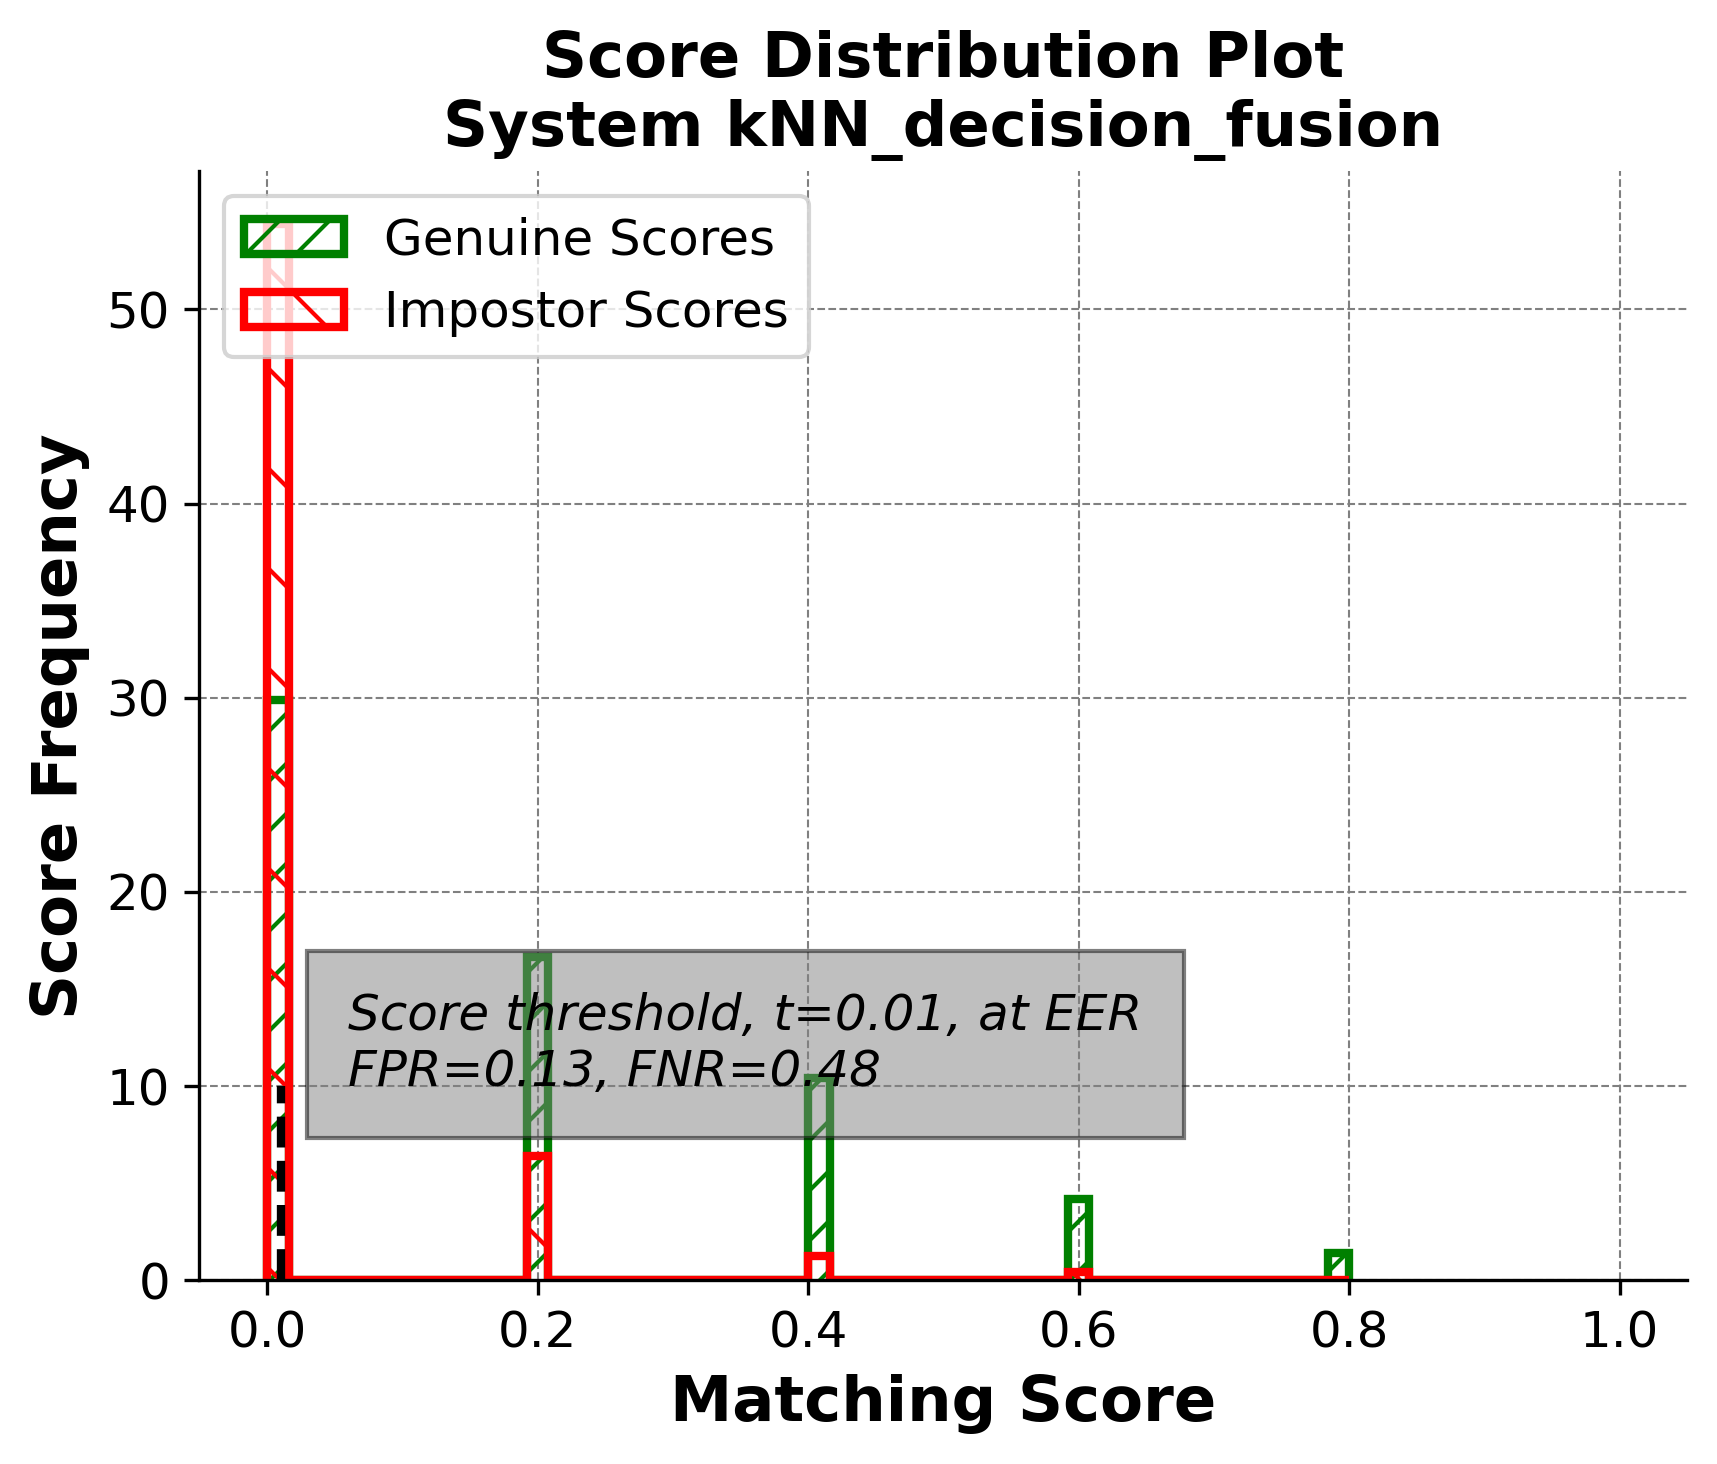
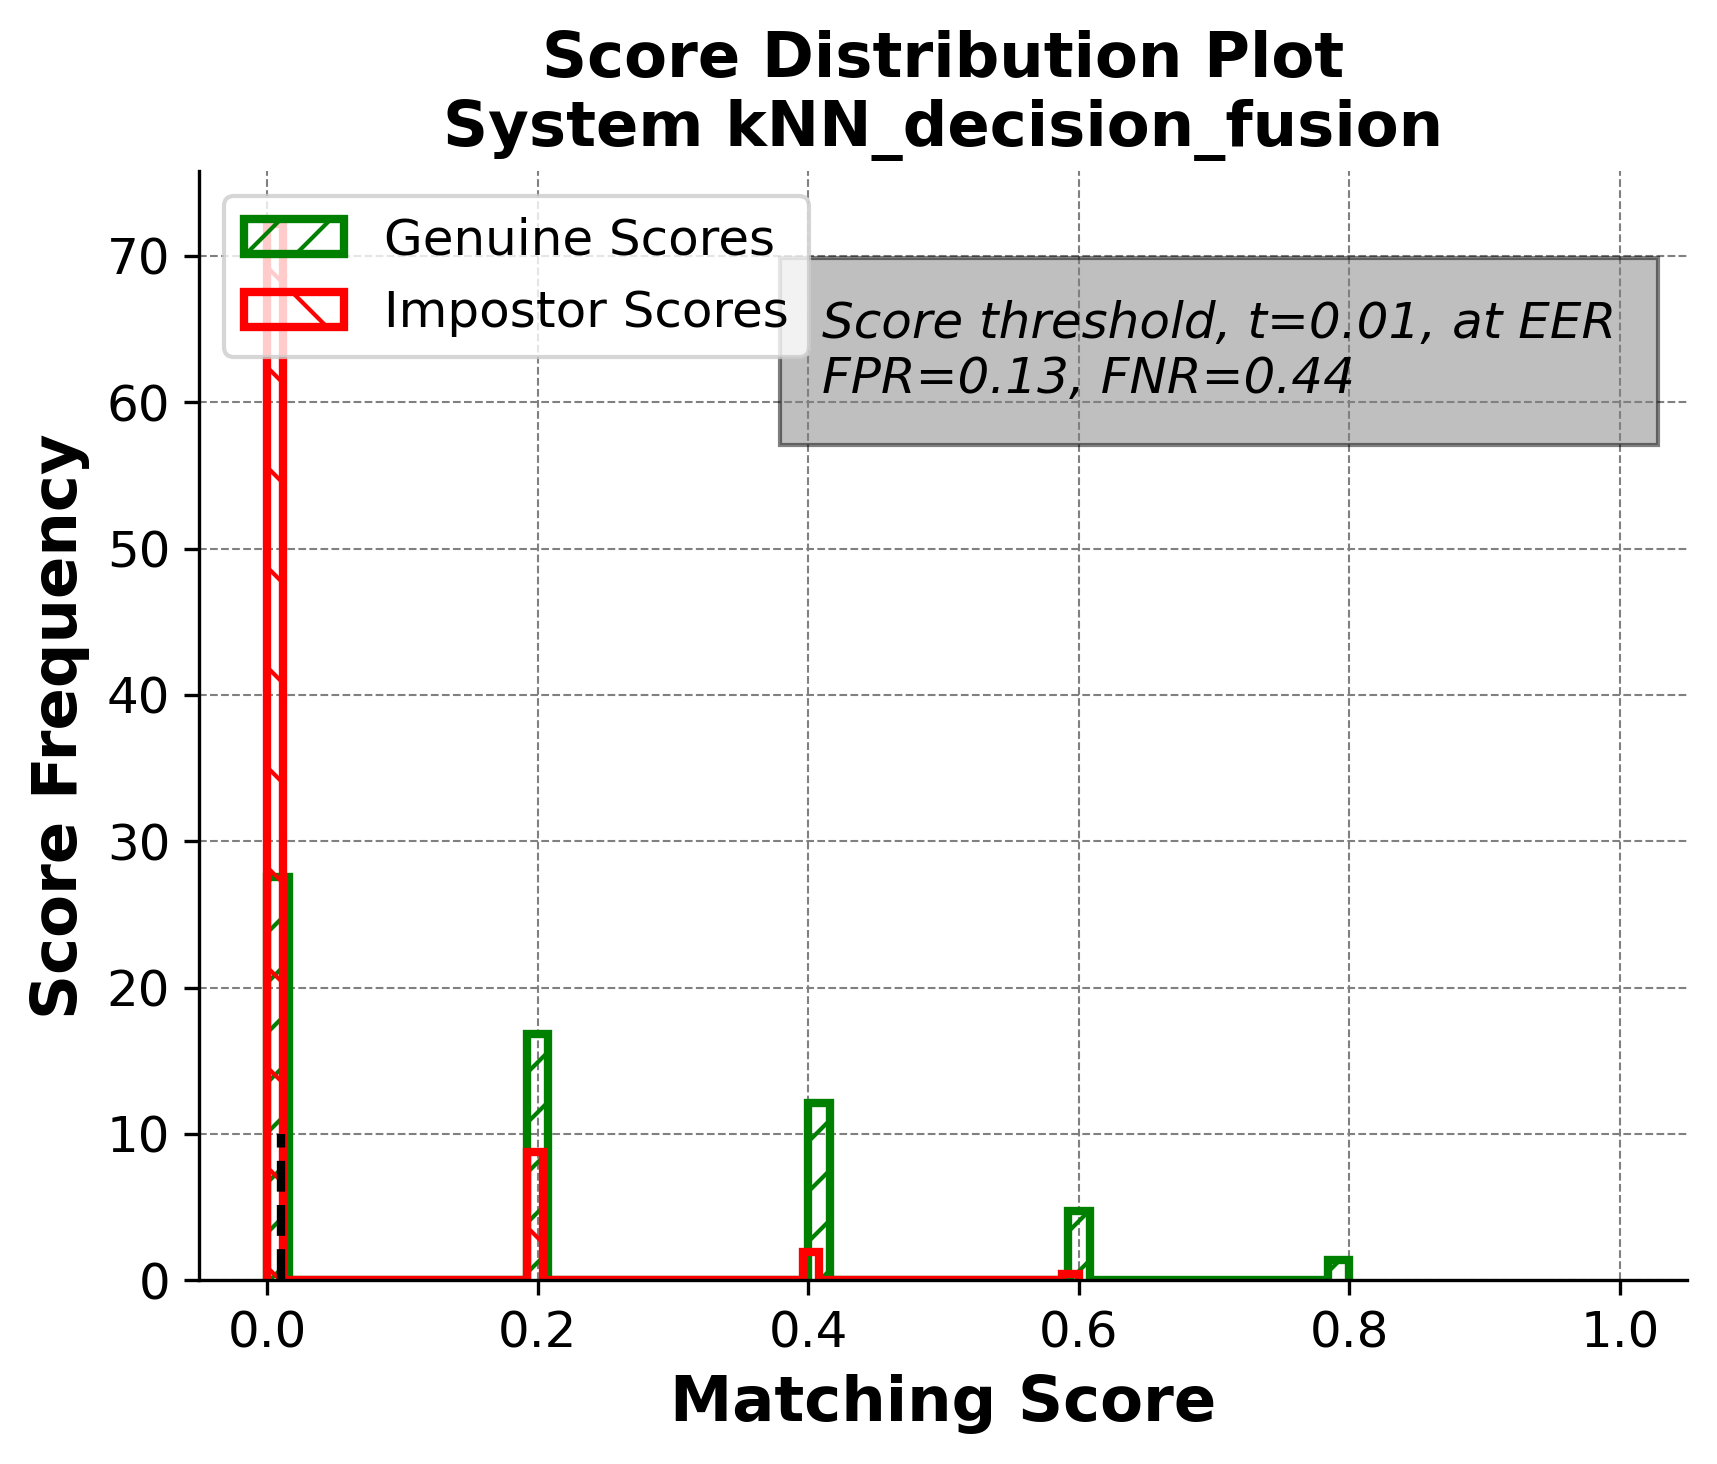
changed some plot formatting
commented out the loading image from dir also

diff --git a/performance_plots.py b/performance_plots.py
@@ -104,9 +104,8 @@ def plot_scoreDist(gen_scores, imp_scores, far, frr, eer_index, optimal_threshol
     plt.hist(gen_scores, color='green', bins=50, density=True, lw=2, histtype='step', hatch='//', label='Genuine Scores')
     plt.hist(imp_scores, color='red', bins=50, density=True, lw=2, histtype='step', hatch='\\', label='Impostor Scores')
     plt.plot([optimal_threshold,optimal_threshold], [0, 10], '--', color="black", lw=2)
-    plt.text(optimal_threshold+0.05, 10, "Score threshold, t=%.2f, at EER\nFPR=%.2f, FNR=%.2f" % (optimal_threshold, far[eer_index], frr[eer_index]), style='italic', fontsize=12, 
-        bbox={'facecolor': 'grey', 'alpha': 0.5, 'pad': 10})
-    plt.xlim([-0.05,1.05])
+    ymax = plt.gca().get_ylim()[1]
+    plt.text(optimal_threshold+0.4, ymax * 0.8, f"Score threshold, t={optimal_threshold:.2f}, at EER\nFPR={far[eer_index]:.2f}, FNR={frr[eer_index]:.2f}", style='italic', fontsize=12, bbox={'facecolor': 'grey', 'alpha': 0.5, 'pad': 10}); plt.xlim([-0.05,1.05])
     plt.grid(color = 'gray', linestyle = '--', linewidth = 0.5)
     plt.legend(loc='upper left', fontsize=12)
     plt.xlabel('Matching Score', fontsize = 15, weight = 'bold')

diff --git a/get_images.py b/get_images.py
@@ -20,7 +20,7 @@ def get_images(image_directory):
     '''
     subfolders = os.listdir(image_directory)
     for subfolder in subfolders:
-        print("Loading images in %s" % subfolder)
+        #print("Loading images in %s" % subfolder)
         if os.path.isdir(os.path.join(image_directory, subfolder)): # only load directories
             subfolder_files = os.listdir(
                     os.path.join(image_directory, subfolder)
